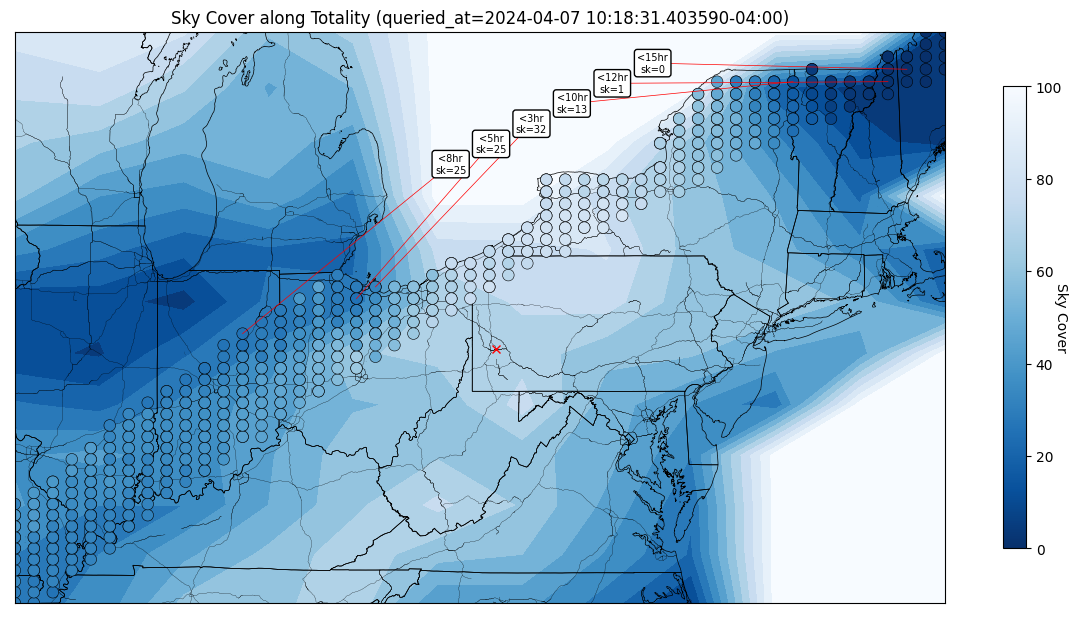
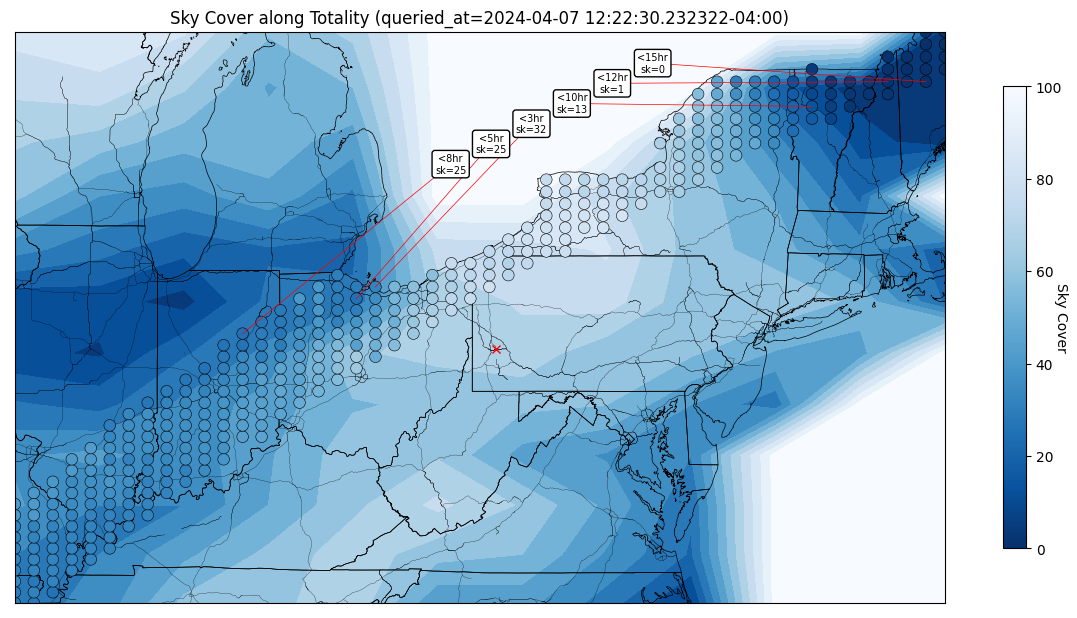
Automated map update

diff --git a/README.md b/README.md
@@ -2,9 +2,9 @@ The last sky cover plot generated:
 ![cover](cover.png)
 
 The best targets by hour:
- - Less than 8 hours: (40.70204, -85.63061) cover: 25
- - Less than 5 hours: (41.28980, -83.09592) cover: 25
  - Less than 3 hours: (41.48571, -82.67347) cover: 32
- - Less than 10 hours: (44.81633, -73.37959) cover: 13
+ - Less than 5 hours: (41.28980, -83.09592) cover: 25
+ - Less than 8 hours: (40.70204, -85.63061) cover: 25
+ - Less than 10 hours: (44.42449, -72.95714) cover: 13
  - Less than 12 hours: (44.81633, -71.26735) cover: 1
- - Less than 15 hours: (45.01224, -70.84490) cover: 0
+ - Less than 15 hours: (44.81633, -70.42245) cover: 0
